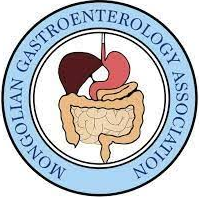
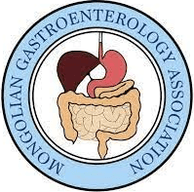
Shrink the photographs to the size the page actually shows
The brand assets were being served at their upload dimensions: logos at up to
1028px square for a box 48px tall, and both photographs at 2400px wide. That was
always waste, but it costs real money now that images.unoptimized is set — with
Vercel's optimiser answering 402, every visitor downloads the original file.

Logos are capped at twice their declared 240x96 box and quantised to a palette,
which is where most of the saving is: 610 KB of marks becomes 125 KB with no
visible change. The two photographs are re-encoded from source rather than from
the already-compressed copies, at 1920px and 1600px; a 1:1 crop of the hero is
indistinguishable from the original, and on the page it sits under a scrim.

public/brand: 1468 KB -> 688 KB.

The uploaded gallery photographs are the other half of the weight and live in
Blob storage, so scripts/resize-uploads.mts does the same job for them. It
reports by default and only rewrites with --apply, keeps each blob's pathname so
no row has to change, and skips anything already small enough, so it is safe to
run twice.

diff --git a/README.md b/README.md
@@ -280,6 +280,13 @@ With the filesystem backend, uploads are served by a route handler
 the project. It serves only image and PDF types and refuses any path resolving outside
 the upload directory.
 
+**Photograph weight.** Uploads are stored as they arrive, which on a phone means two
+or three megapixels more than any layout uses. `npm run resize:uploads` reports the
+oversized ones and, with `--apply`, rewrites each blob at 1600px under its existing
+pathname, so nothing in the database changes. It matters more than usual while
+`images.unoptimized` is set in `next.config.ts`: with Vercel's optimiser off, every
+visitor downloads the original. Run it after a batch of gallery uploads.
+
 **Backup.** `npm run backup` dumps the whole database to `backups/msid-<date>.sql` from
 whichever backend the environment points at; restore with `turso db shell <name> < file`
 or `sqlite3 new.db < file`. On Turso's free plan that scheduled dump *is* the backup —
@@ -352,6 +359,7 @@ environment rather than arguments, so they stay out of shell history. Add
 | `npm run demo` / `npm run demo:clear` | Add / remove sample content |
 | `npm run admin` | Create an administrator, or promote/reset an existing account (see above) |
 | `npm run backup` | Full SQL dump to `backups/`, and a report on foreign-key enforcement. Add `TURSO_DATABASE_URL` / `TURSO_AUTH_TOKEN` to back up production |
+| `npm run resize:uploads` | Reports which stored photographs are larger than the page ever displays; `-- --apply` rewrites them in place. Needs `BLOB_READ_WRITE_TOKEN` alongside the Turso variables |
 
 ---
 
